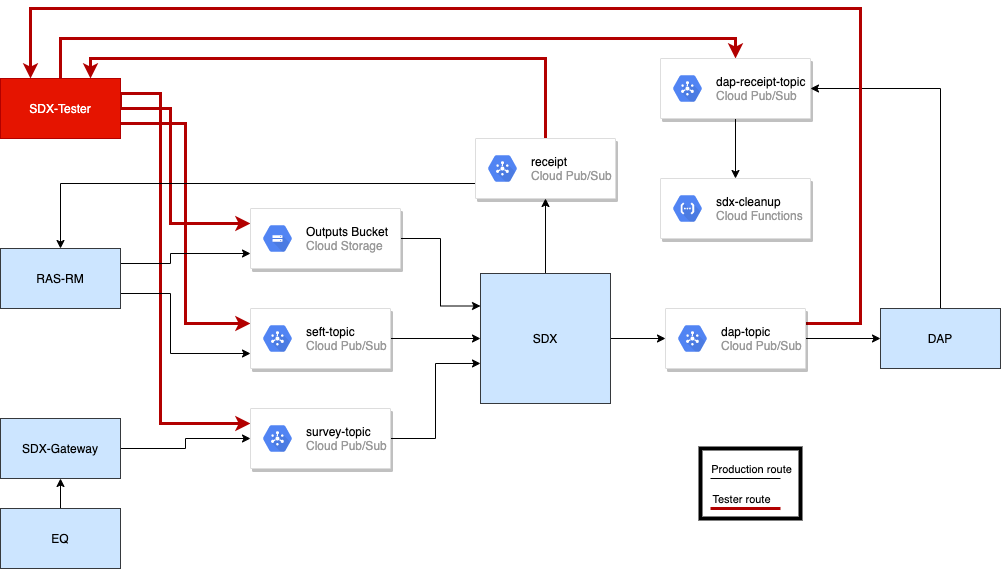
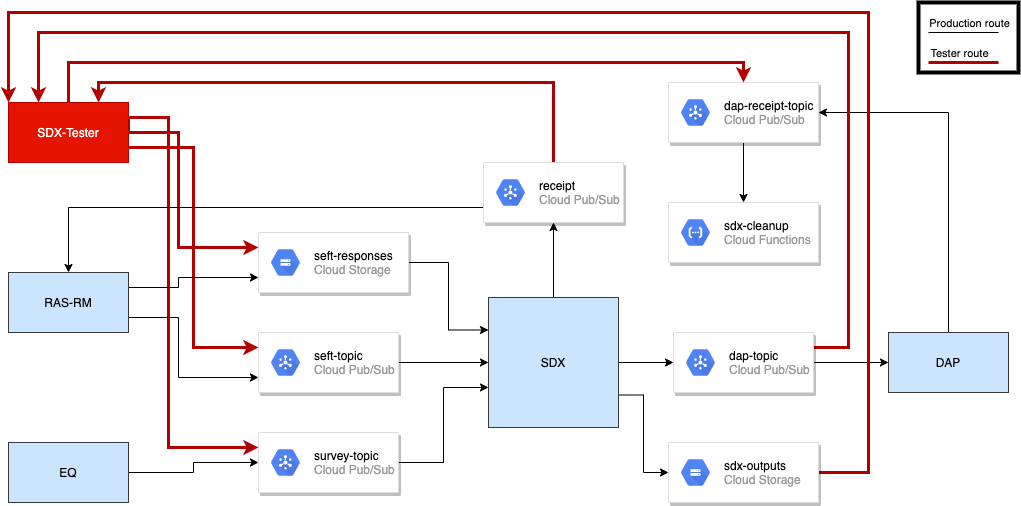
Readme changes (#47)
* printing messages and readme changes

* README changes

* Update chart version

Changed region(s): [[0.0, 0.0, 1.0, 1.0], [0.6194, 0.7708, 0.8671, 1.0]]

diff --git a/README.md b/README.md
@@ -13,7 +13,7 @@ in SDX-Concourse.
 
 | External Interaction | Functionality                                                                                                                 |
 |----------------------|-------------------------------------------------------------------------------------------------------------------------------|
-| RAS-RM               | Puts SEFT survey submissions within `ons-sdx-{{project_id}}-sefts` GCP Bucket and publishes to `seft-topic` PubSub Topic.     |
+| RAS-RM               | Puts SEFT survey submissions within `ons-sdx-{{project_id}}-seft-responses` GCP Bucket and publishes to `seft-topic` PubSub Topic.     |
 | RAS-RM               | Acknowledges Receipt sent to RAS-RM via `receipt-topic`                                                                       |
 | EQ                   | Publishes JSON survey submissions to `survey-topic` PubSub Topic                                                              |
 | DAP                  | Subscribes to `dap-topic`, acknowledging processed submissions.                                                               |
@@ -31,7 +31,7 @@ NB:
 ## Front-end
 
 Tester provides a UI that allows users to select, edit and submit both JSON Surveys and SEFTs. The UI also provides functionality
-to verify the data and kick off the cleanup function 
+to verify the data and kick off the cleanup function. 
 
 ## Integration Tests
 
@@ -56,7 +56,7 @@ Run order:
 
 
 NB:
-- Please ensure the infrastructure is deployed including the cloud function
+- Please ensure the infrastructure is deployed including the cloud function.
  
 ## Comment Tests
 
@@ -67,9 +67,9 @@ generate and deliver the daily comments.
 `make comment-test`
 
 Run order:
-1. **test_setup.py** - wipes data within Datastore and the `{project_id}-outputs/comment` bucket/folder. 
+1. **test_setup.py** - wipes data within Datastore and the `{project_id}-outputs/comments` bucket/folder. 
 2. Trigger CronJob
-3. **test_comments.py** - verifies the spreadsheet that was generated using pandas and then deletes after verification
+3. **test_comments.py** - verifies the spreadsheet that was generated using pandas and then deletes after verification.
 4. Remove triggered CronJob
 
 
@@ -78,10 +78,10 @@ Run order:
 A set of tests that measure the speed of SDX.
 
 **run locally:**
-`make performance-test:`
+`make performance-test`
 
 Run order:
-1. **setup.py** - puts 500 sefts into ons-sdx-{{project_id}}-sefts GCP Bucket
+1. **setup.py** - puts 500 sefts into ons-sdx-{{project_id}}-seft-responses GCP Bucket
 2. **test_performance.py** - Runs 500 sefts and surveys through SDX, measuring time taken.
 
 ## Configuration
@@ -89,7 +89,7 @@ Run order:
 |--------------------------------|------------------------------------
 | PROJECT_ID                     | Name of project
 | OUTPUT_BUCKET_NAME             | Output bucket `{project_id}-outputs`
-| INPUT_SEFT_BUCKET              | SEFT input bucket `{project_id}-sefts`
+| INPUT_SEFT_BUCKET              | SEFT input bucket `{project_id}-seft-responses`
 | DAP_SUBSCRIPTION               | Subscription to message going to dap
 | SURVEY_QUARANTINE_SUBSCRIPTION | Quarantine queue for JSON submissions
 | SEFT_QUARANTINE_SUBSCRIPTION   | Quarantine queue for SEFT submissions
